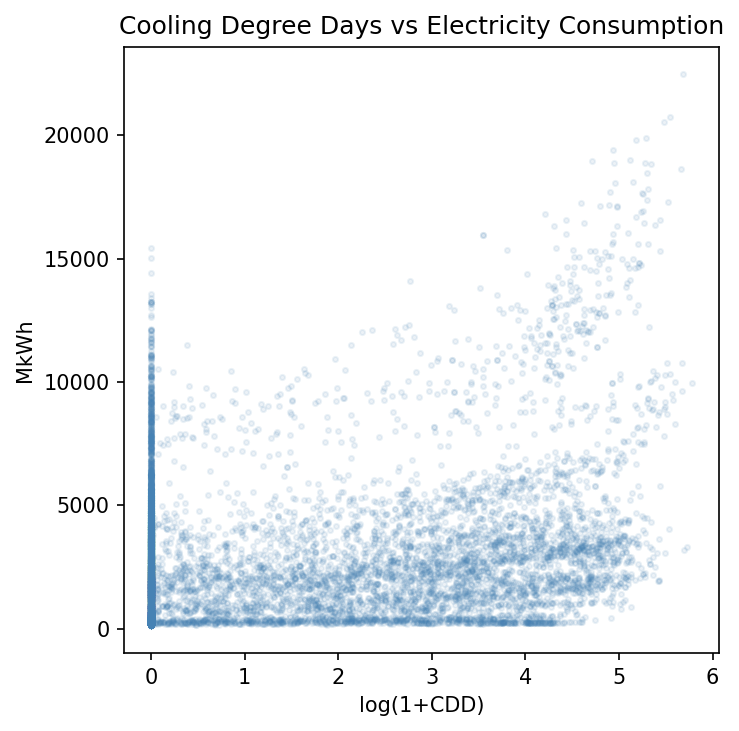
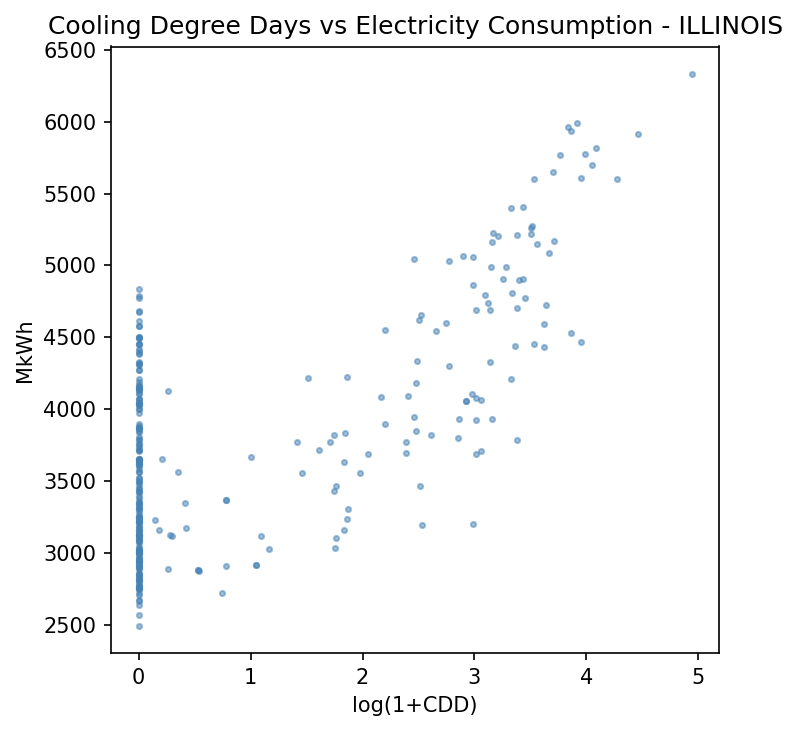
Add files via upload

diff --git a/Paper/main.tex b/Paper/main.tex
@@ -25,9 +25,9 @@
 
 % ---------- Fill these in ----------
 \newcommand{\coursename}{DATA 2010}
-\newcommand{\termname}{Winter 2026} % change if needed
-\newcommand{\duedate}{[DUE DATE, 11:59pm]} % fill in
-\newcommand{\submissionplace}{UM Learn} % change if needed
+\newcommand{\termname}{Winter 2026}
+\newcommand{\duedate}{[09 Apr 2026]}
+\newcommand{\submissionplace}{UM Learn} 
 
 \title{\textbf{DATA 2010:\\ Predicting State-Level Residential Energy Consumption}\\
 \large \termname}
@@ -40,13 +40,14 @@ Spencer Brule (8025008) \\
 \maketitle
 % =========================================================
 \section{Project Overview}
-Record-breaking energy demands, combined with growing energy conservation initiatives, highlight the importance of developing models that can reliably predict and inform the allocation of energy resources. As populations grow and climate patterns become increasingly variable, the ability to anticipate energy needs becomes both economically and environmentally significant. In this project, we investigate the extent to which publicly available weather data can be used to model and predict residential energy consumption across the United States.
-Specifically, this work leverages data obtained from the U.S. Energy Information Administration (EIA), which provides approximately twenty years of monthly, state-level records for residential natural gas consumption (measured in million cubic feet, MMCF) and electricity consumption (measured in million kilowatt-hours, Mkh). This dataset is paired with weather data acquired from OpenMeteo API, which offers flexibility in feature location, and date selection. With additional feature engineering, most notably Heating Degree Days (HDD) and Cooling Degree Days (CDD), which serve as widely accepted proxies for temperature-driven energy demand, these datasets aligning to explore both explanatory and predictive relationships between weather conditions and energy usage. From an exploratory standpoint, understanding how strongly HDD and CDD correlate with natural gas and electricity consumption, respectively, provides insight into seasonal consumption patterns and the extent to which weather alone can explain observed variability. From a predictive standpoint, the project evaluates whether these relationships can be leveraged to construct models that generalize well across time and across different states.
-To achieve this, multiple modeling approaches will be considered, including linear regression models and more flexible, non-linear tree-based methods such as Random Forest. Linear models offer interpretability and simplicity, making them attractive for understanding direct relationships between variables. In contrast, tree-based models are capable of capturing complex interactions and non-linear effects, which may be present due to various hidden factors which influence energy consumption. 
+Record-breaking energy demands, combined with growing energy conservation initiatives, highlight the importance of developing models that can reliably predict and inform the production and allocation of energy resources. As populations grow and climate patterns become increasingly variable, the ability to anticipate energy needs becomes both economically and environmentally significant.\\
+In this project, we investigate the extent to which publicly available weather data can be used to model and predict residential energy consumption across the United States.
+Specifically, this work leverages data obtained from the U.S. Energy Information Administration (EIA), which provides more than twenty years of monthly, state-level records, for natural gas consumption (measured in million cubic feet, MMCF) and electricity consumption (measured in million kilowatt-hours, Mkh). This dataset is paired with weather data acquired from OpenMeteo API, which offers flexibility in feature location, and date selection. With additional feature engineering, most notably Heating Degree Days (HDD) and Cooling Degree Days (CDD), which serve as widely accepted proxies for temperature-driven energy demand, these datasets align to explore both explanatory and predictive relationships between weather conditions and energy usage. From an exploratory standpoint, understanding how strongly HDD and CDD correlate with natural gas and electricity consumption, respectively, provides insight into seasonal consumption patterns and the extent to which weather alone can explain observed variability. From a predictive standpoint, the project evaluates whether these relationships can be leveraged to construct models that generalize well across time and across different states.
+To achieve this, multiple modeling approaches are considered, including linear regression models and more flexible, non-linear tree-based methods such as Random Forest. Linear models offer interpretability and simplicity, making them attractive for understanding direct relationships between variables. In contrast, tree-based models are capable of capturing complex interactions and non-linear effects, which may be present due to various hidden factors which influence energy consumption. 
 
 Accurate forecasting of residential energy requirements, both in electricity and natural gas, has broad implications in state-level resource planning and infrastructure investment/development. The ability to anticipate demand can allow the energy sector to efficiently allocate resources and minimize waste. Furthermore, the ability to forecast spikes in demand can inform regulators and avoid energy shortages. 
 
-By answering these questions, this project contributes tangible value in a lightweight and open-source model. This project details a successful approach to predicting both natural gas and electricity consumption by state. In addition to accurate predictions, it is shown that a tree based model outperforms linear models given our data and that heating and cooling degree days have strong explanatory power when it comes to energy consumption.
+This project aims to contribute tangible value in a lightweight and open-source model by detailing a successful approach to predicting both natural gas and electricity consumption by state. In addition to accurate predictions, it is shown that a tree based model outperforms linear models given our data; and, that heating and cooling degree days have strong explanatory power when it comes to energy consumption.
 
 
 % =========================================================
@@ -64,12 +65,12 @@ This paper seeks to address the following research questions:
 
 \subsection{Data Origin}
 \begin{itemize}
-  \item Dataset name: \href{https://open-meteo.com/en/docs/historical-weather-api}{OpenMeteo API}
+  \item Dataset name: \href{https://open-meteo.com/en/docs/historical-weather-api}{OpenMeteo API} [1]
   \item What each row represents: Summary weather results from a single day at a single location (State)
   \item Key columns: Date, Min Temp, Mean Temp, Max Temp, Daylight Duration, Wind speed, Wind gusts, Radiation, Precipitation
 \end{itemize}
 \begin{itemize}[leftmargin=18pt]
-  \item Dataset name: \href{https://www.eia.gov/opendata/browser/natural-gas}{EIA API (Gas)}, \href{https://www.eia.gov/opendata/browser/electricity}{EIA API (Electricity)}
+  \item Dataset name: \href{https://www.eia.gov/opendata/browser/natural-gas}{EIA API (Gas)}, \href{https://www.eia.gov/opendata/browser/electricity}{EIA API (Electricity)} [2]
   \item What each row represents: Monthly summary totals for state-level energy consumption, sales, consumers, residential and industry data.
   \item Key columns: Period (Date), State, Consumption
 \end{itemize}
@@ -93,7 +94,7 @@ EIA(Gas)
 Number of rows & [104651] \\
 Number of columns & [11] \\
 Time range (Monthly) & [2001-2026] \\
-Missing values present? & [No] \\
+Missing values present? & [Yes, Imputed] \\
 \bottomrule
 \end{tabular}
 \end{center}
@@ -113,8 +114,8 @@ Missing values present? & [No] \\
 \section{Data Cleaning and Feature Engineering}
 
 \subsection{Energy Data}
-Using the Energy Information Administration(EIA) API, datasets for electricity and natural gas consumption by state were downloaded. These datasets were complete and required minimal cleaning; such as trimming, date decomposition, and minor imputation. \newline
-For each energy dataset, industrial and commercial consumer entries were removed as they are not a focus of this model. Further trimming eliminated unnecessary features leaving the dataset with only date, state, and total endpoint consumption of either type of energy. Select rows which contained inaccurate states such as "U.S." or "D.C." were dropped since they don't match the other data and don't align with the goal of the model.  Features were renamed with units of measurement to save space and persist units. For model performance and compatibility with other data, the 'date' column was decomposed into 'year' and 'month' features. Missing values were detected and imputed in approximately 0.12\% of electricity records. \newline
+Using the Energy Information Administration (EIA) API, datasets for electricity and natural gas consumption by state were compiled. These datasets required minimal cleaning; such as trimming, date decomposition, and minor imputation. \newline
+For each energy dataset, industrial and commercial consumer entries were removed as they are not a focus of this model. Further trimming eliminated unnecessary features leaving the dataset with only date, state, and total endpoint consumption of either type of energy. Select rows which contained inaccurate states such as "U.S." or "D.C." were dropped since they represent regions rather than states and do not align with the goal of the model. Features were renamed with units of measurement to save space and persist units. For model performance and compatibility with other data, the 'date' column was decomposed into 'year' and 'month' features. Missing values were detected and imputed in approximately 0.12\% of electricity records. \newline
 Imputation for our target variable(s) relies on an understanding of the behaviour; since average consumption for winter months is dissimilar from average consumption for summer months, simply imputing the mean would lead to poor imputation. Additionally, as state populations grow (or shrink) over time, an average of twenty-five years may also lead to inaccurate imputation. Therefore, the simple solution of imputing the previous year's value for that state and month was employed.\newline
 For electricity and gas data, normalization of the target features (Mkh, MMCF) by the residential population was considered and avoided due to unavailability of gas consumer population. Electricity customers could serve as a proxy for gas customers since both datasets are residential and belong to the same state; however, a conscious choice was made to allow the model to handle these values without normalization.
 The resulting concatenated energy dataframe includes 5 features:
@@ -126,7 +127,7 @@ Interacting with the OpenMeteo Weather API provided many advantages, namely the 
 
 \begin{center}
 Weather Feature Selection \\
-(Table 4.1)\\
+(Table 1)\\
 \begin{tabular}{ll}
 \toprule
 Feature & Aggregation \\
@@ -148,20 +149,20 @@ Precipitation (mm)& Sum\\
 \begin{figure}
     \centering
     \includegraphics[width=\columnwidth]{HDDvsGas.png}
-    \caption{Relationship between HDD and Gas consumption}
+    \caption{Strong linear relationship between HDD and Gas consumption}
     \label{fig: 4.2}
 \end{figure}
 
 \begin{figure}
     \centering
     \includegraphics[width=\columnwidth]{CDDvsElectricity.png}
-    \caption{Relationship between CDD and Electricity consumption}
+    \caption{Points stuck on y-axis represent electricity consumption unexplained by CDD}
     \label{fig: 4.3}
 \end{figure}
 
 \subsection{Feature Engineering}
-For each state, the granularity of entries for weather data was finer than that of the energy data. This provided an excellent opportunity to engineer features prior to eventual aggregation to match the granularity of the two data frames. Aggregation of days by month for each feature was based on the strategy outlined in table 4.1. \\
-Given the goal of attempting to measure energy consumption based on weather, feature engineering was employed to manufacture two new features: 'Heating Degree Days' and 'Cooling Degree Days'. The objective of these features is to apply a metric to days in which the weather dictates the requirement for heating or cooling of the household. Based on the recommended indoor temperatures outlined by the World Health Organization (WHO), our model uses a household temperature range between $17.8$ to $23.9$ celsius[1], average daily temperatures above this range indicate a requirement for cooling, and temperatures below, heating.  
+For each state, the granularity of entries for weather data was finer than that of the energy data. This provided an excellent opportunity to engineer features prior to eventual aggregation to match the granularity of the two data frames. Aggregation of days by month for each feature was based on the strategy outlined in table 1. \\
+Given the goal of attempting to measure energy consumption based on weather, feature engineering was employed to manufacture two new features: 'Heating Degree Days' and 'Cooling Degree Days'. The objective of these features is to apply a metric to days in which the weather dictates the requirement for heating or cooling of the household. Based on the recommended indoor temperatures outlined by the World Health Organization (WHO), our model uses a household temperature range between $17.8$ to $23.9$ celsius [3]. Average daily temperatures above this range indicate a requirement for residential cooling, while temperatures below the range indicate a requirement for residential heating.  
 $$
 HDD = 
 \begin{cases}
@@ -178,7 +179,7 @@ T_{avg}  - 23.9, & \text{if } T_{avg} > 23.9\\
 $$
 \textit{where $T_{avg}$ is the average daily temperature.}
 
-Implementing this formula, two new features are generated which effectively capture not only the need for heating or cooling, but quantify the severity of difference in outdoor temperature versus indoor climate control. We can see that HDD exhibit strong explanatory power for gas consumption (Fig \ref{fig: 4.2}.); however CDD, while showing some correlation, reveal unexplained increases in electricity consumption where CDD is zero, suggesting the presence of additional influencing factors(Fig \ref{fig: 4.3}.).
+Implementing this formula, two new features are generated which effectively capture not only the need for heating or cooling, but quantify the severity of difference in outdoor temperature versus indoor climate control. We can see that HDD exhibits strong explanatory power for gas consumption in a single state (Fig \ref{fig: 4.2}.); however CDD, while showing low correlation, reveals unexplained increases in electricity consumption where CDD is zero, suggesting the presence of additional influencing factors and cannot be reasonably explained by CDD alone (Fig \ref{fig: 4.3}.).
 
 %Electricity vs month
 \begin{figure}
@@ -209,7 +210,7 @@ Feature encoding is an important aspect of setting up data for use in a machine 
 With the completion of encoding, the data set is ready for use in a model.
 
 % =========================================================
-\section{Exploratory Data Analysis and Visualization}
+\section{Exploratory Data Analysis (EDA) and Visualization}
 %Temp
 \begin{figure*}[t]
     \centering
@@ -221,7 +222,7 @@ With the completion of encoding, the data set is ready for use in a model.
 
 Our EDA will serve to illustrate and confirm some basic assumptions about our data as well as offering more in-depth insights into their correlations and inform strategies moving forward.
 
-Firstly, our initial and seemingly trivial observation from HDD is that natural gas consumption and temperature have a strong negative correlation - that is to say generally, when temperature decreases, gas consumption increase and vice-versa. Taking a sample from Illinois(Fig \ref{fig: 5.1}.), we see this assumption confirmed.
+Firstly, our initial and seemingly trivial observation from HDD is that natural gas consumption and temperature have a strong negative correlation - that is to say generally, when temperature decreases, gas consumption increase and vice-versa. Taking a sample from Illinois (Fig \ref{fig: 5.1}.), we see this assumption confirmed.
 
 Additionally, based on our observations of correlations between CDD and electricity consumption, we see a somewhat expected result; we see spikes in electricity consumption in summer months (Jul, Aug) and in winter months (Dec, Jan, Feb). (Fig \ref{fig: 5.2}.) Not only does this support the existence of additional hidden factors influencing electricity consumption, but also illustrates that these factors are seemingly influencing winter months more than others. 
 
@@ -235,7 +236,7 @@ Plotting our selected features into a correlation heatmap (Fig \ref{fig: 5.3}.) 
     \caption{Linear relationships between features}
     \label{fig: 5.3}
 \end{figure}
-Our correlation heatmap illustrates linear relationships between our target variables (MMCF, Mkh) and all individual weather features falls within (-0.34, 0.35), indicating weak linear relationships. This suggests linear models may have poor performance compared to those which may capture non-linear relationships. Since correlation only captures linear dependence — the true relationship between temperature and energy consumption is likely non-monotonic (high consumption in both very cold and very hot months), meaning the predictive signal may be stronger than these coefficients suggest.\newline
+Our correlation heatmap illustrates linear relationships between our target variables (MMCF, Mkh) and all individual weather features fall within [-0.34, 0.35], indicating weak linear relationships. This suggests linear models may have poor performance compared to those which may capture non-linear relationships. Since correlation only captures linear dependence — the true relationship between temperature and energy consumption is likely non-monotonic (high consumption in both very cold and very hot months), meaning the predictive signal may be stronger than these coefficients suggest.\newline
 We see a very strong positive correlation between radiation and daylight duration. This is expected, as solar radiation is directly driven by the number of daylight hours.
 We see a strong positive correlation between temperature measurements and both daylight duration and radiation, which follows naturally since longer days and greater solar radiation are the primary drivers of seasonal temperature variation.
 We also see very strong negative and positive relationships between our engineered heating/cooling degree days (HDD/CDD) and our temperature measurements. This is expected, as HDD and CDD are computed directly from mean daily temperature, which is itself bounded by and correlated with the min/max temperature readings.
@@ -247,10 +248,10 @@ Finally, the strong inter-correlation among temperature, radiation, daylight, HD
 \section{Data Analysis}
 
 \subsection{Analysis Plan}
-Based on observations during data cleaning and exploratory data analysis, some notable results and guidance emerged. These observation serve to inform the strategy of model application. Beginning with linear regression models, scaling, and cross validation, we seek to prove this model outperforms the baseline, avoids overfitting, but more accurate predictions exist. In-line with observations in EDA, we continue to a tree-based random forest models with the intent of proving superior performance to the previous models.  
+Based on observations during data cleaning and exploratory data analysis, some notable results and guidance emerged. These observations serve to inform the strategy of model application. Beginning with linear regression models, scaling, and cross validation, we seek to prove this model outperforms the baseline, avoids overfitting, but more accurate predictions exist. In-line with observations in EDA, we continue to a tree-based random forest models with the intent of proving superior performance to the previous models.  
 
 \subsection{Baseline}
-Using linear regression restricted to the date features and outputs, a simple baseline model can be created.
+Using linear regression restricted to the date features and outputs, a simple baseline model was created.
 \subsection{Multiple Linear Regression}
 Applying multiple linear regression with scaled features assumes linear relationships between features but allows for a straightforward assessment of the relative importance of each feature and evaluation of potential overfitting. Using K-folds cross-validation method (K=5), the model shows no signs of overfitting. This model serves as a secondary baseline given the identification of non-linear relationships in the EDA phase. 
 
@@ -284,7 +285,7 @@ Random Forest & 0.991 & 224 \\
 
 \subsection{Interpretation}
 
-Accurate forecasting of residential energy requirements, both in electricity and natural gas, has broad implications in state-level resource planning and infrastructure investment/development. An accurate, lightweight model trained on easily accessible, open source features with the ability to anticipate energy demand not only showcases interpretability, influence and power; but, also highlights this process can be economical, efficient, and maintainable.  
+Accurate forecasting of residential energy requirements, both in electricity and natural gas, has broad implications in state-level resource planning and infrastructure investment/development. An accurate, lightweight model trained on easily accessible, open source features with the ability to anticipate energy demand not only showcases interpretability, influence and power; but also highlights that this process can be economical, efficient, and maintainable.  
 
 % =========================================================
 \section{Real-World Application}
@@ -319,6 +320,7 @@ If you used AI tools (e.g., ChatGPT, Gemini) for coding or writing, disclose it.
 \begin{itemize}[leftmargin=18pt]
     \item Chatgpt : Used for API caching and error catching.
     \item Chatgpt : Used to edit visualizations to better fit into the paper.
+    \item Chatgpt : For cyclical encoding
     \item Chatgpt : Formatting url links into the paper
     \item Chatgpt : Code debugging
 \end{itemize}
@@ -326,8 +328,8 @@ If you used AI tools (e.g., ChatGPT, Gemini) for coding or writing, disclose it.
 % =========================================================
 \begin{thebibliography}{00}
 
-\bibitem{b1} Energy: https://www.eia.gov/opendata/browser/electricity/retail-sales
-\bibitem{b2} Weather : https://open-meteo.com/en/docs
+\bibitem{b1} Weather : https://open-meteo.com/en/docs
+\bibitem{b2} Energy: https://www.eia.gov/opendata/browser
 \bibitem{b3} Graff, M., Nock, D. The role of thermostats and human behaviour in residential temperature settings in the USA. Nat Energy 11, 400–414 (2026). https://doi.org/10.1038/s41560-025-01948-w
 \end{thebibliography}
 
